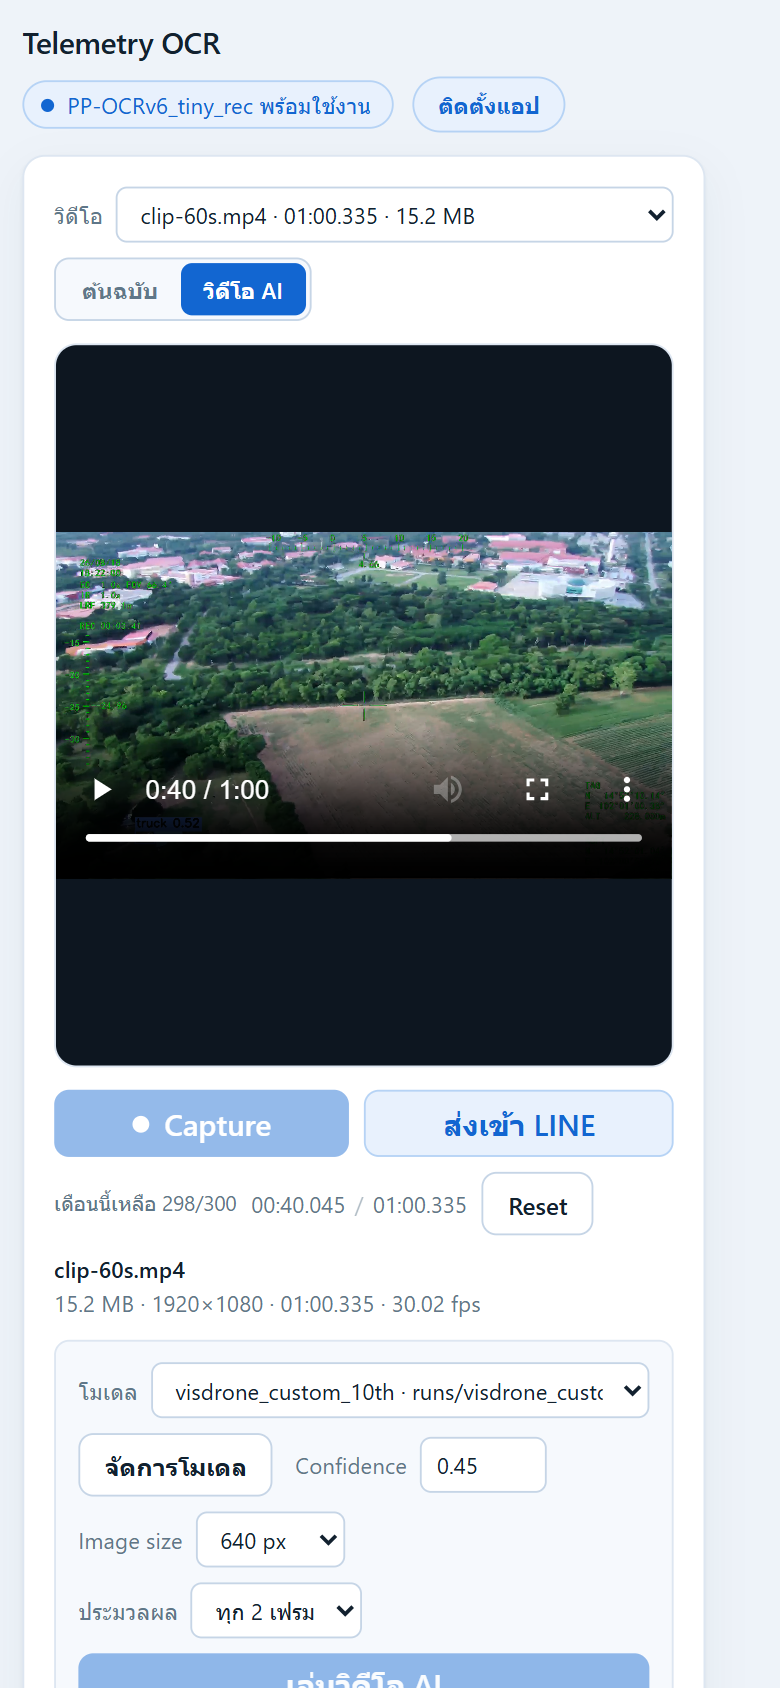
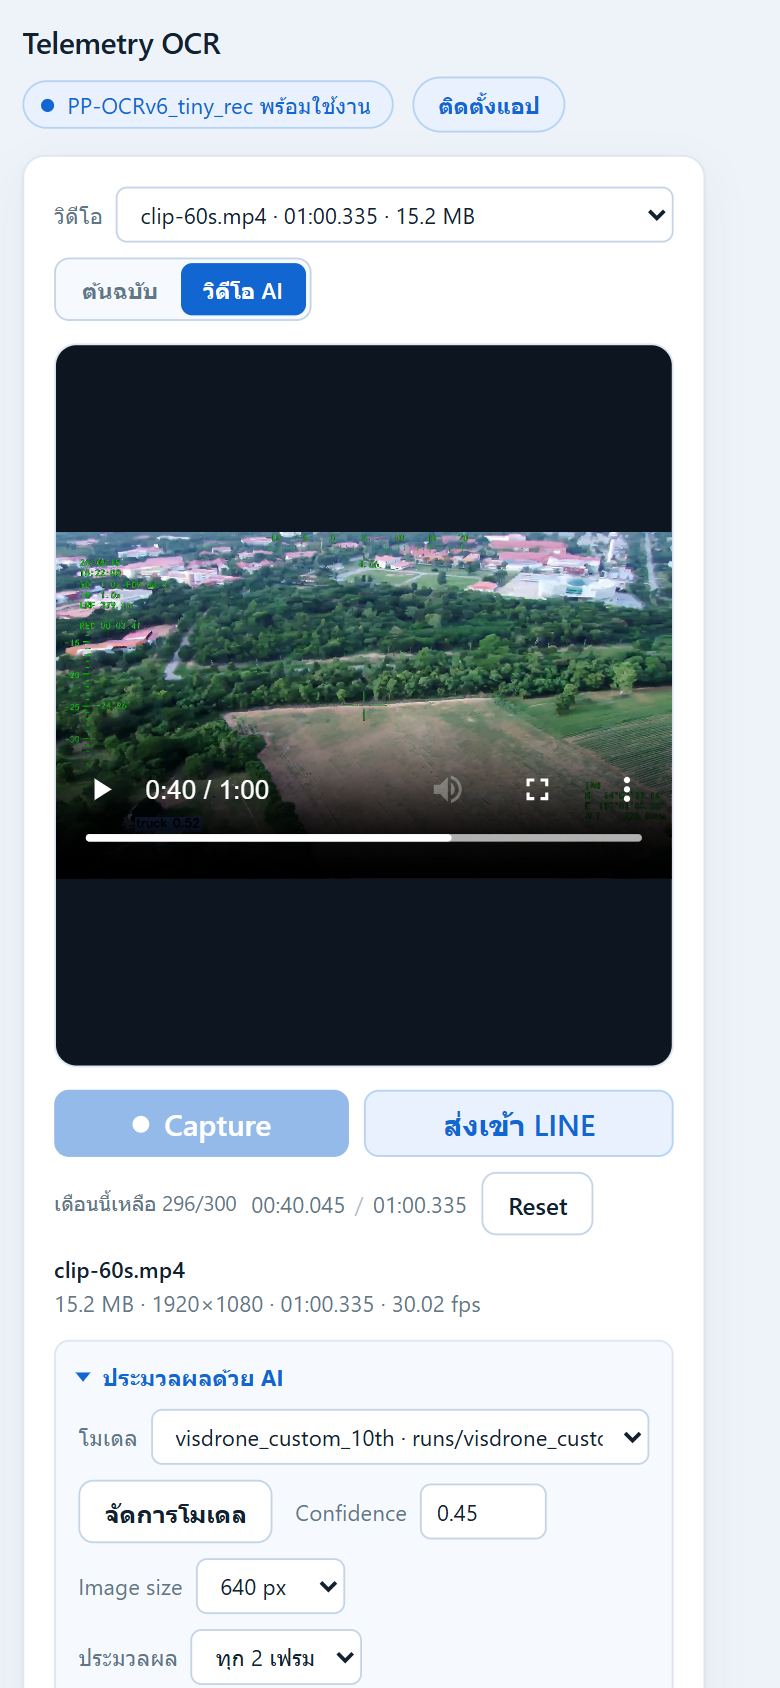
Retake the guide pictures for the panel that folds and the models in order
The screenshots now show the collapsible heading, the model list ordered by the
numbers in the names, and a render list with two entries rather than the seven
a day of testing left in it. capture_screens.py takes a "static" argument that
skips the two pictures of a render in progress, so the guide can be re-shot on a
machine that is busy rendering something of its own.

Changed region(s): [[0.0923, 0.8009, 0.8308, 1.0], [0.8, 0.8009, 0.8308, 0.8626]]

diff --git a/docs/user-guide/capture_screens.py b/docs/user-guide/capture_screens.py
@@ -39,6 +39,10 @@ from vision_lab.report import find_browser
 APP = sys.argv[1] if len(sys.argv) > 1 else "http://127.0.0.1:8765/"
 VIDEO = sys.argv[2] if len(sys.argv) > 2 else "clip-60s.mp4"
 MODEL = sys.argv[3] if len(sys.argv) > 3 else ""
+# "static" leaves the two pictures of a render in progress alone and takes
+# only the ones a finished render can pose for, which needs no GPU -- what to
+# pass when the machine is busy rendering something of its own.
+STATIC = len(sys.argv) > 4 and sys.argv[4] == "static"
 OUT = Path(__file__).resolve().parent / "assets" / "screens"
 RENDERS = ROOT / "output" / "renders"
 PORT = 9333
@@ -218,6 +222,13 @@ def box_times(render_id: str, fallback=(19.8, 17.6, 5.0)) -> tuple[float, ...]:
 
 
 async def render_for_the_pictures(cdp: Cdp) -> str:
+    if STATIC:
+        render_id = await cdp.js("(matchingRender() || {}).render_id || ''")
+        if not render_id:
+            raise SystemExit("static mode needs a finished render for these settings")
+        print("static: keeping the pictures of a render in progress as they are")
+        return render_id
+
     """Render the clip, photographing it being made, cancelled and continued.
 
     Returns the render id, and whether it was made only for the pictures -- in
@@ -234,8 +245,8 @@ async def render_for_the_pictures(cdp: Cdp) -> str:
         )
     await cdp.js("renderButton.click()")
     await cdp.wait_for(
-        "state.renderJob && state.renderJob.status === 'running' && state.renderProcessedS > 6",
-        timeout=300, label="the first segments of the render",
+        "state.renderJob && state.renderJob.status === 'running' && state.renderProcessedS > 12",
+        timeout=600, label="enough of the render to photograph",
     )
     await asyncio.sleep(2)
     await shot(cdp, "05-render-progress", "#aiPanel")
